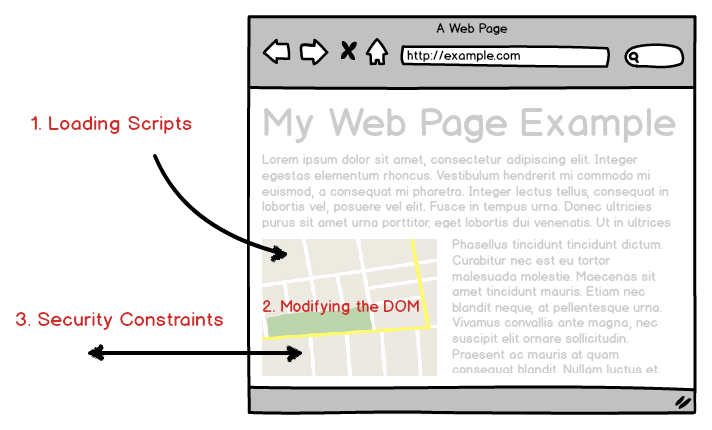
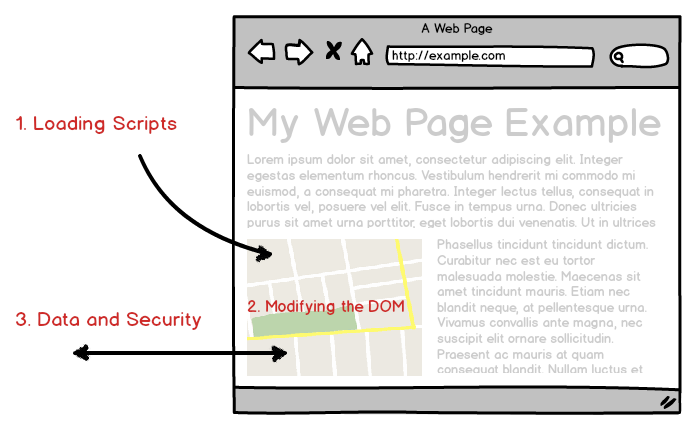
added img sending

diff --git a/index.html b/index.html
@@ -36,7 +36,9 @@
 <div class="reveal"><div class="slides">
 
 <section data-markdown><script type="text/template">
-# Third Party JavaScript
+### Building Widgets and APIs Using
+# Third Party
+# JavaScript
 with Torstein Bjørnstad
 <aside class="notes">
     Building third-party widgets and apis using JavaScript
@@ -57,7 +59,7 @@ Web Developer
 [@toshb](https://twitter.com/toshb) | [github.com/toshb](https://github.com/toshb) | [tosh.no](http://tosh.no)
 
 <aside class="notes">
-    1985, 3 yrs, blue shirt, .NET stack, web pages, javascript
+    1985, 3 yrs, blue shirt, web pages, javascript
 </aside>
 </script></section>
 
@@ -70,15 +72,16 @@ Web Developer
     Consumer (reader) <br>
     Provider (serving), easy to write scripts <br>
     3rd party, know nothing about the page <br>
+    Loaded from a different server, updated independently of the page <br>
     Widgets like Facebook, Twitter, Disqus.<br>
     Google Analytics is typical API.
 </aside>
 </script></section>
 
 <section data-markdown><script type="text/template">
-![Facebook Widget](img/facebookwidget.png)
+![Facebook Widgets](img/facebookwidget.png)
 <aside class="notes">
-    Facebook Widget
+    Facebook Widget. Uses existing session on Facebook.
 </aside>
 </script></section>
 
@@ -107,7 +110,7 @@ Web Developer
 Three main sections. <br>
 Loading <br>
 Modifying the DOM <br>
-Security Constraints when loading data <br>
+Loading Data and Security<br>
 </aside>
 </script></section>
 <section></section>
@@ -134,11 +137,20 @@ Security Constraints when loading data <br>
 </script></section>
 
 <section data-markdown><script type="text/template">
+    ![One does not simply load jQuery](img/loadjquery.jpg)
+
+    <aside class="notes">
+        Is jquery loaded? What version? Plugins? Modifications?<br>
+    </aside>
+</script></section>
+
+<section data-markdown><script type="text/template">
 ## Avoiding Conflicts with other scripts
 <ul>
   <li class="fragment">Keep globals to a minimum</li>
   <li class="fragment">Hide scripts, use noConflict()</li>
   <li class="fragment">Wrap scripts, use RequireJS</li>
+  <li class="fragment">Scope RequireJS</li>
 </ul>
 <aside class="notes">
     Globals, preferably none. No more than one.<br>
@@ -146,14 +158,7 @@ Security Constraints when loading data <br>
     Closures and Immediately Invoked Function Expressions<br>
     NoConflict, keep reference.<br>
     Namespaced requirejs, jquery backbone underscore noconflict<br>
-</aside>
-</script></section>
-
-<section data-markdown><script type="text/template">
-![One does not simply load jQuery](img/loadjquery.jpg)
-
-<aside class="notes">
-    Is jquery loaded? What version? Plugins? Modifications?<br>
+    Remember that RequireJS can also conflict
 </aside>
 </script></section>
 
@@ -161,8 +166,9 @@ Security Constraints when loading data <br>
 ## Don't affect page load times
 
 <aside class="notes">
+    Server going down might not be the worst <br>
     What happens if you're overloaded? <br>
-    Or if your server goes down? <br>
+    Are scripts big and taking a long time to load? <br>
     What happens when you deploy? App pool recycling?
 
     The page should keep loading<br>
@@ -191,6 +197,8 @@ Security Constraints when loading data <br>
     Will block, but placement will help.<br>
     At least place on bottom, so content is loaded. Will still postpone document ready.<br>
     After a while and you have added a bunch of additional frameworks and jquery, it's getting slow. <br>
+    Show demo <br>
+    Caching? <br>
     If the script is big or server slow, we can't solve by caching..<br>
 </aside>
 </script></section>
@@ -219,14 +227,20 @@ Security Constraints when loading data <br>
 <section data-markdown><script type="text/template">
 loader.js
 ```javascript
-var script = document.createElement('script'),
-s = document.getElementsByTagName('script')[0];
+(function (){
+    var script = document.createElement('script'),
+        s = document.getElementsByTagName('script')[0];
 
-script.src = 'http://example.com/script.v15.js';
-script.async = true;
+    script.src = 'http://example.com/script.v15.js';
+    script.async = true;
 
-s.parentNode.insertBefore(script, s);
+    s.parentNode.insertBefore(script, s);
+})();
 ```
+<aside class="notes">
+    Immediately Invoked Function Expression
+</aside>
+
 </script></section>
 
 <section data-markdown><script type="text/template">
@@ -248,10 +262,8 @@ Same problem..
 </code>
 </div>
 
-
-<span id="docwritetext"></span>
-
 <aside class="notes">
+Writes to current location in the dom <br>
     Should not be blocking, but why does it block anyway?<br>
     Didn't add anything, but it could have.<br>
     Might add things that modify the page, html, css even JavaScript.<br>
@@ -267,6 +279,7 @@ Same problem..
 </code>
 <aside class="notes">
     Declare that you won't use document.write.<br>
+    DEFER in HTML5 <br>
     ASYNC in HTML5, loads async and runs immediately<br>
     doc.write is ignored <br>
     Came with HTML5, to improve on defer<br>
@@ -308,10 +321,13 @@ Very hard to change later
 </aside>
 
 </script></section>
-
+<section></section>
 
 <section data-markdown><script type="text/template">
 # Displaying Stuff
+<aside class="notes">
+    Just modify the DOM like you would normally do with jQuery.
+</aside>
 </script></section>
 
 <section data-markdown><script type="text/template">
@@ -324,12 +340,15 @@ Very hard to change later
 <section data-markdown><script type="text/template">
 ## Don't mess up the page
 
-* Keep elements contained inside one id/class
+* Dynamic CSS Loading
+* Keep elements contained inside one element
 * Carefully scoped CSS
 * [LESS](http://lesscss.org)/[SASS](http://sass-lang.com/)
-* Dynamic CSS Loading
+* iframes
+
 
 <aside class="notes">
+    Create link, set href and add <br>
     Scope styles inside your own namespace<br>
     LESS/SASS Nesting <br>
     Explicitly style your elements to override other styles. Can't reset (yet)<br>
@@ -343,7 +362,8 @@ Very hard to change later
 
 <aside class="notes">
 The optional requirement is for brands.<br>
-Facebook widgets branded. You can't fake the like-link.
+Facebook widgets branded. You can't fake the like-link. <br>
+Make rules that are more specific than others <br>
 </aside>
 </script></section>
 
@@ -352,7 +372,7 @@ Facebook widgets branded. You can't fake the like-link.
 ## Source-less iframes
 <ul>
     <li class="fragment">Sandbox for styles</li>
-    <li class="fragment">Not for security</li>
+    <li class="fragment">Allow communication</li>
 </ul>
 
 <aside class="notes">
@@ -408,7 +428,9 @@ Might be a better choice, unless you have to talk a lot to the page<br>
 ![Assessment Engine](img/aEngine.png)
 
 <aside class="notes">
-Widget for creating multiple-choice tests. Dynamic, interactive, many styles, inherit styles, Styling was hard.<br>
+Widget for creating multiple-choice tests. <br>
+Rendered directly into the dom <br>
+Dynamic, interactive, many styles, inherit styles, Styling was hard.<br>
 This would probably be better as source less iframe, passing in some styles.
 </aside>
 </script></section>
@@ -425,27 +447,34 @@ This would probably be better as source less iframe, passing in some styles.
 </script></section>
 
 <section data-markdown><script type="text/template">
-## Some points
+## Things to consider
 
-* iframes are the easiest
+* iframes are not so bad
 * Rendering outside the frame?
 * Performance
-* Look and feel
+* Inheriting styles
 * Security
 
 <aside class="notes">
+    iframes have a bad reputation <br>
+    together with XmlHttpRequest, good things from Internet Explorer <br>
     Rendering outside the frame, tooltips? Can be solved by rendering to the page..<br>
     Iframes, especially multiple, can be slow compared to elements.<br>
     Inheriting styles in iframes is possible, but harder.<br>
-    Normal iframes are more secure due to SOP.
+    Normal iframes are more secure due to SOP. Facebook widget.
 </aside>
 </script></section>
 
+<section></section>
 
 <section data-markdown><script type="text/template">
-# Security Constraints
+# Data and Security
 <aside class="notes">
-Cookies for auth, has to prevent.
+Be aware of the Security Boundaries in the browser. <br>
+Nature of third party scripts is that they're on different domain <br>
+Most likely a different domain, if you need data that is. <br>
+Loading scripts and images are easy, data is not. <br>
+Use whatever you've got, jQuery, Angulars $http. <br>
 </aside>
 </script></section>
 
@@ -466,6 +495,7 @@ Browser mechanism to prevent XmlHttpRequests to different sites using the user's
 <p class="fragment">Note that <code>&lt;script&gt;</code> tags are exempt.</p>
 
 <aside class="notes">
+Other sites doing get on facebook, getting your friends. <br>
 You can still load scripts, like we do from CDNs all the time.
 </aside>
 </script></section>
@@ -475,7 +505,7 @@ You can still load scripts, like we do from CDNs all the time.
 <aside class="notes">
 For allowing requests across different origins (protocols, hosts, ports).
 Preflight OPTIONS request, Methods and headers.
-Variying implementations, feels hackish.
+Variying implementations.
 </aside>
 </script></section>
 
@@ -483,7 +513,7 @@ Variying implementations, feels hackish.
 ![CORS Compatibility](img/cors.png)
 <small>http://caniuse.com/cors</small>
 <aside class="notes">
-Note the limitations in IE. GET/POST only, No custom headers: Auth hard.
+Note the limitations in IE. GET/POST only, No custom headers, no cookies.
 </aside>
 </script></section>
 
@@ -511,7 +541,6 @@ Just works everywhere.
 
 <section data-markdown><script type="text/template">
 ## JSONP quick introduction
-
 <pre>&lt;script src="data.js?callback=displayUserData"&gt;&lt;/script&gt;</pre>
 <br>
 data.js:
@@ -522,6 +551,20 @@ displayUserData({"authenticated": true, "username": "Tosh"});
 Adds a script tag dynamically, invokes function on return.<br>
 Notice the callback is specified as parameter, and wraps the script.<br>
 jQuery autogenerates callbacks.
+</aside>
+</script></section>
+
+<section data-markdown><script type="text/template">
+## Sending data through <code>&lt;img&gt;</code>
+
+```javascript
+var image = new Image();
+image.src = endpointUrl + '?data=" + data;
+```
+
+<aside class="notes">
+    For send only, google analytics uses images. <br>
+    Fire and forget, good for logging and collecting data, like users.
 </aside>
 </script></section>
 
@@ -555,13 +598,29 @@ JSONP is very easy to get working, beware of passing user data as anyone can inc
 </aside>
 </script></section>
 
+<section></section>
+
 <section data-markdown><script type="text/template">
 # Providing an API
 
-Same as mentioned earlier, only without the hassle of DOM.
 <aside class="notes">
-    Not much to say here. Expose one global and work with that.
+Same as mentioned, only that you don't need to fight with the DOM. <br>
+Still gotta be aware of scripts <br>
+Providing an API, or more common an API Wrapper. <br>
+Have one global and expose a bunch of methods.  <br>
+Be stable. <br>
+Not much to say here. Expose one global and work with that.
 </aside>
+</script></section>
+
+<section></section>
+<section data-markdown><script type="text/template">
+# Summary
+
+* Perfect your loader
+* Be careful with the DOM
+* Good luck with the SOP
+
 </script></section>
 
 <section data-markdown><script type="text/template">
